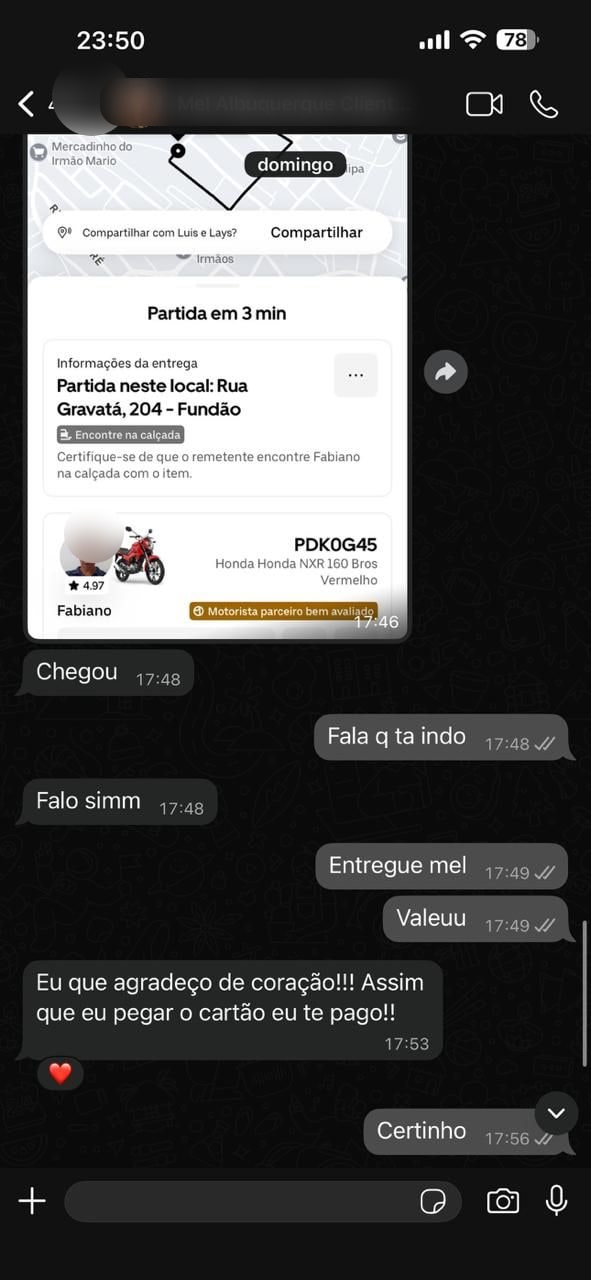
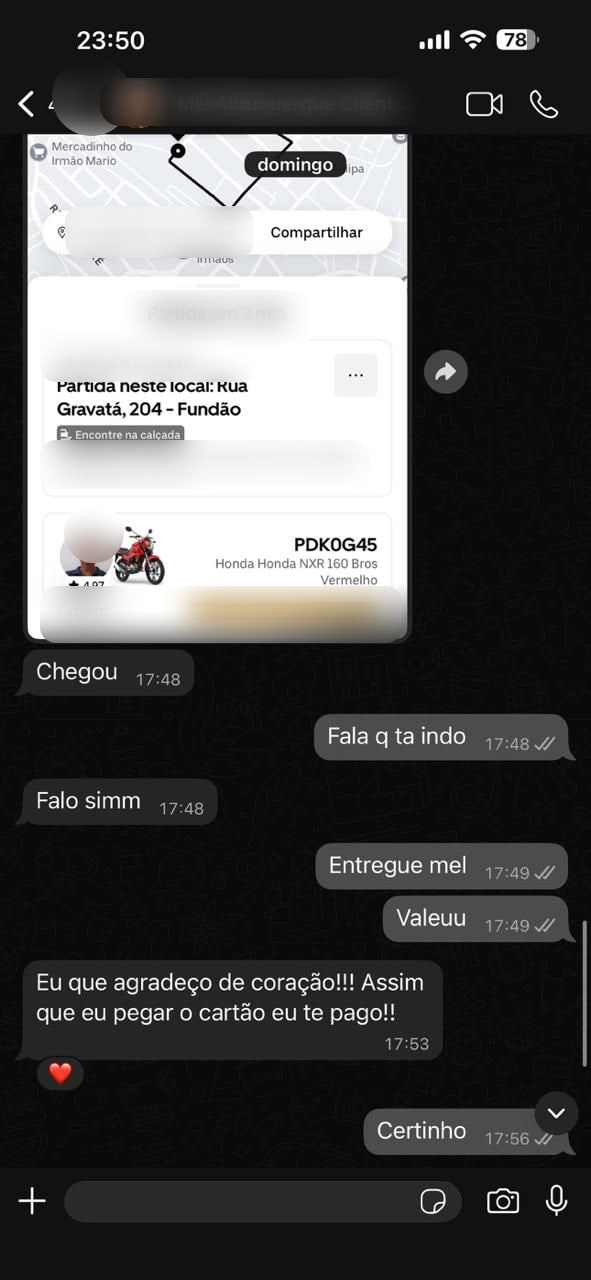
Refina blur pontual nos feedbacks

diff --git a/src/data/home-gallery.ts b/src/data/home-gallery.ts
@@ -6,7 +6,7 @@ export interface HomeGalleryImage {
 }
 
 const HOME_GALLERY_IMAGE_COUNT = 73;
-const FEEDBACK_ASSET_VERSION = "2026-04-06-10";
+const FEEDBACK_ASSET_VERSION = "2026-04-06-14";
 const FEEDBACK_ASSET_BASE = `${import.meta.env.BASE_URL}assets/feedbacks`;
 
 export const homeGalleryImages: HomeGalleryImage[] = Array.from(
